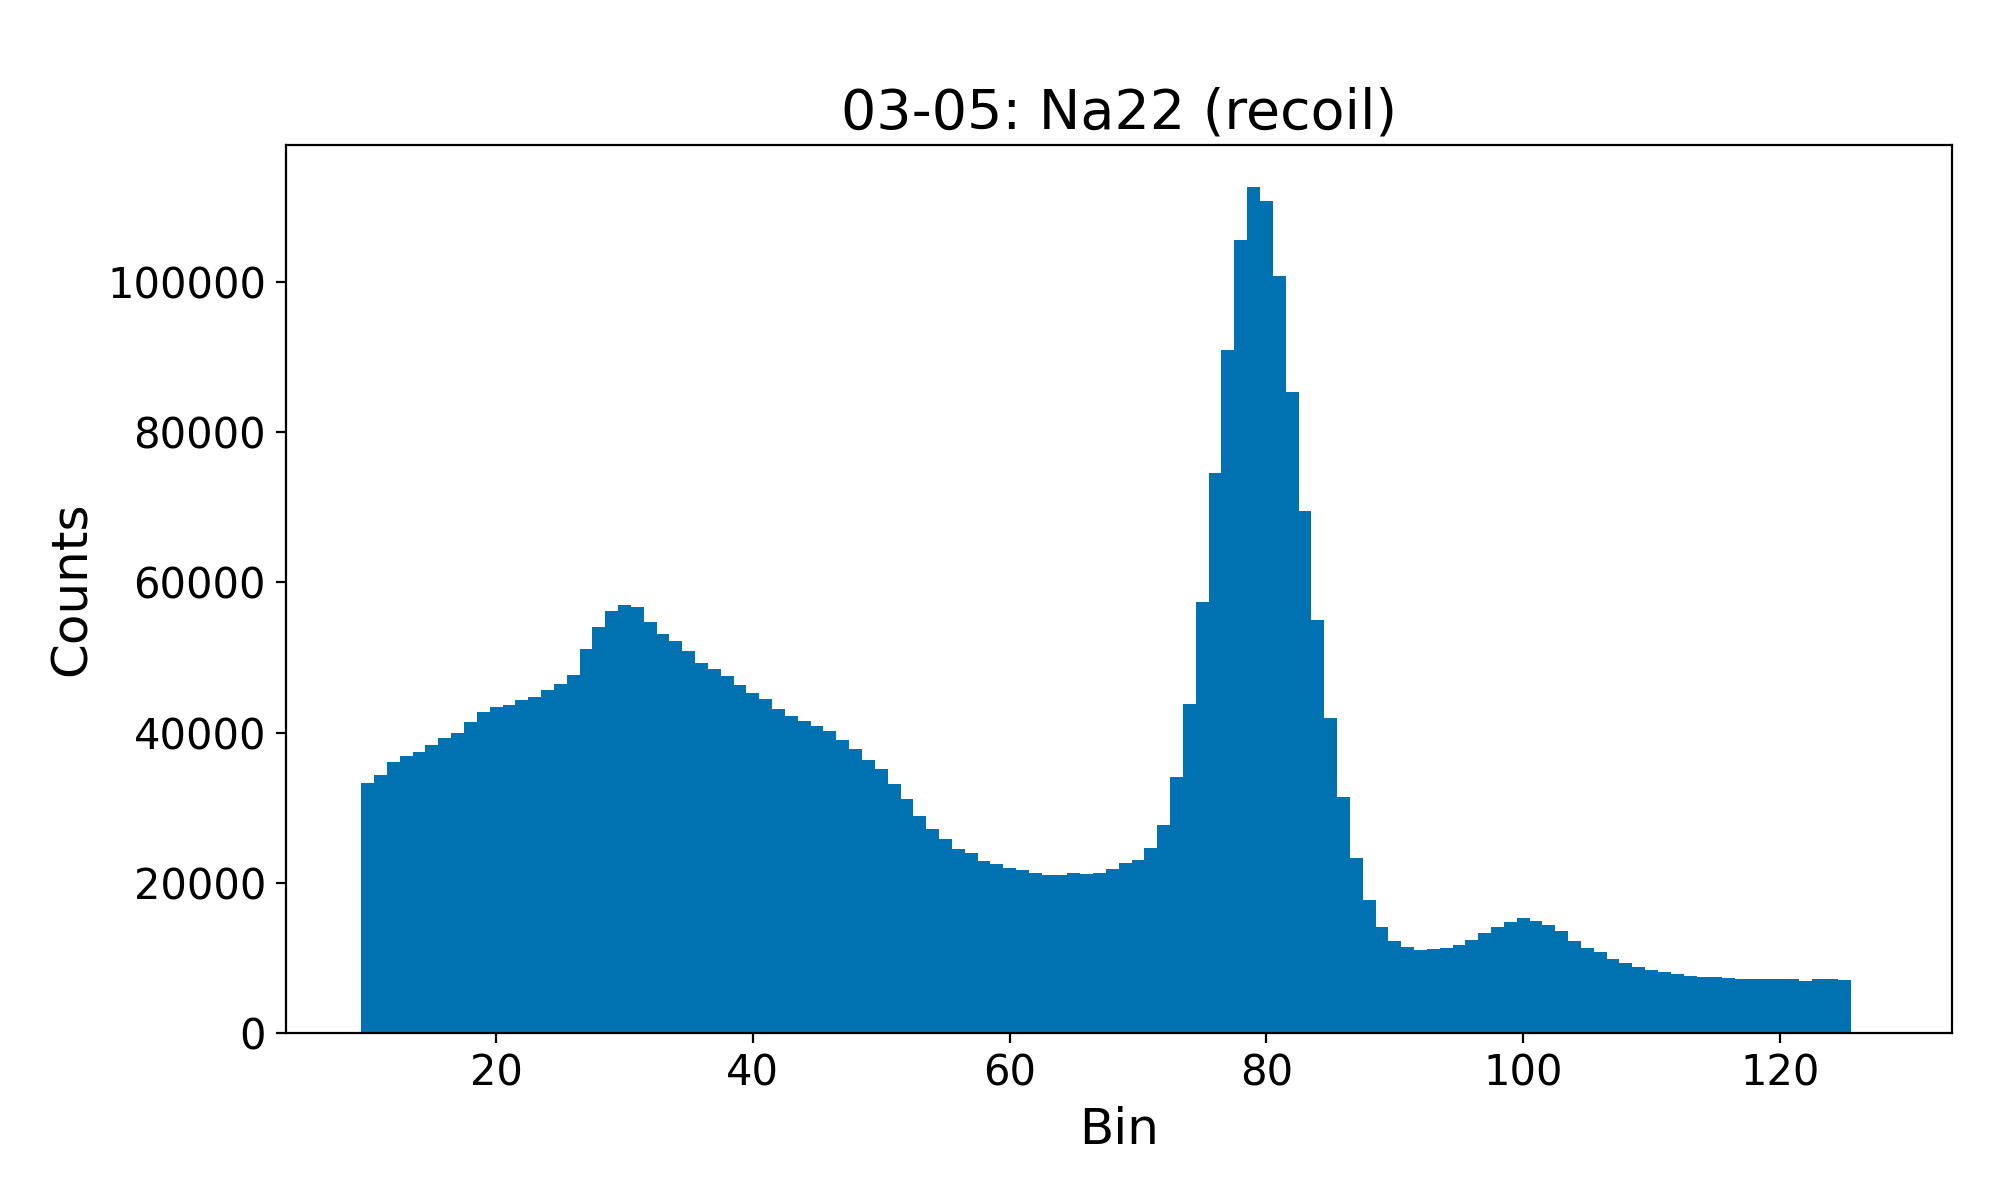
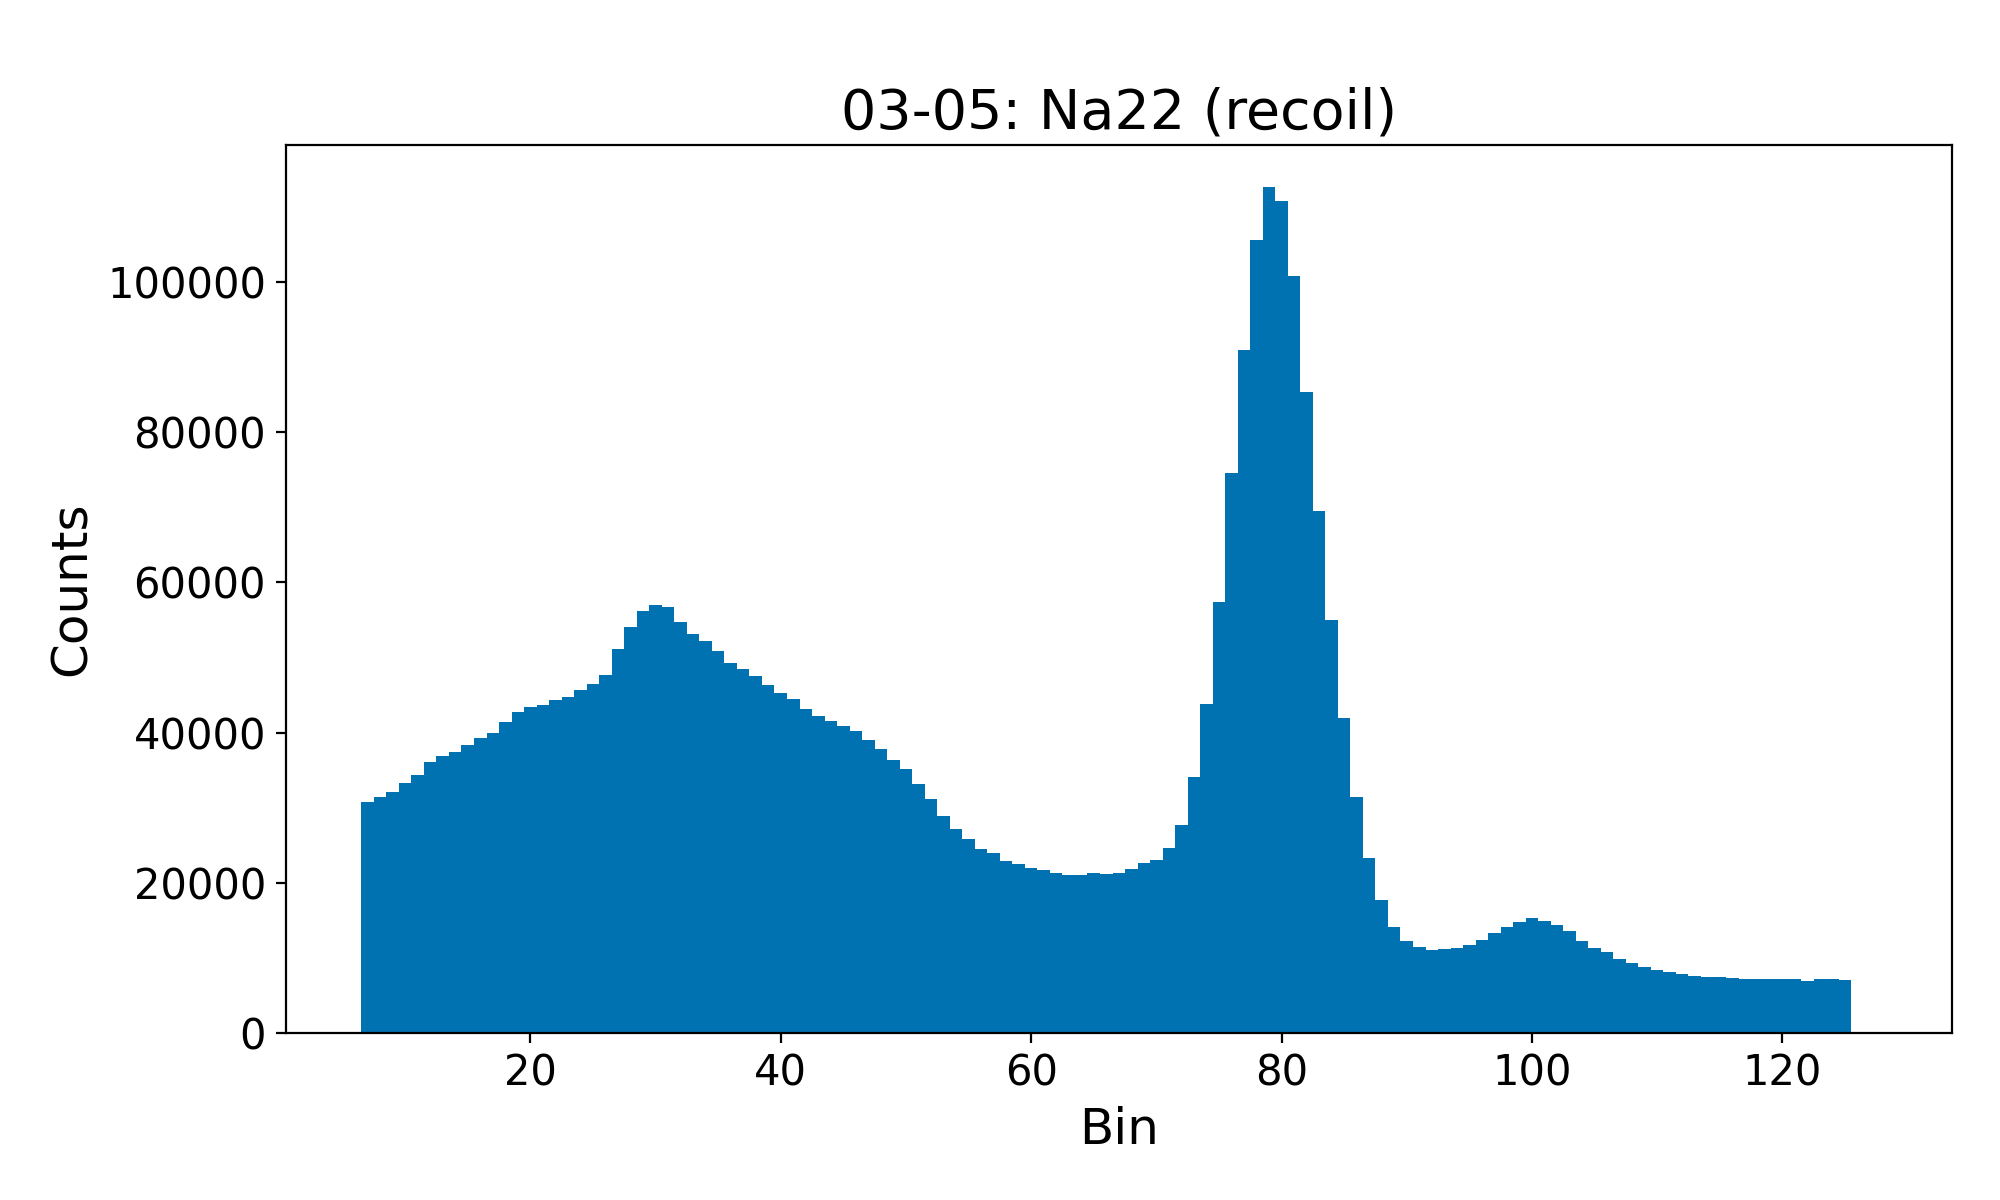
everything up to calibration done

diff --git a/Analysis/better-analysis.py b/Analysis/better-analysis.py
@@ -43,8 +43,9 @@ CGRAY = "#7F7F7F"
 # ============================================================
 
 FACTOR = 16
-UNIVERSAL_CUTOFF = 160 // FACTOR
+UNIVERSAL_CUTOFF = 120 // FACTOR
 HALF_WIDTH_FIT = 88 // FACTOR
+PROMINENCE = 20 * FACTOR
 
 SYSTEMATIC_CONFIG = {
     "enabled": False,
@@ -1704,6 +1705,7 @@ if __name__ == "__main__":
     ###################
 
     os.makedirs(OUTPUT_DIR, exist_ok=True)
+    os.makedirs(OUTPUT_DIR+"\\calibrations", exist_ok=True)
     for sp_type in DIR_TYPE:
         for source in DIR_SOURCE:
             for a in DIR_ANALYSIS:
@@ -1820,8 +1822,8 @@ if __name__ == "__main__":
             peak_plot = popt[1]
             peak_plot_err = perr[1]
 
-            Na22_peak_locations[f"{date}-{sp_type}"] = peak_plot
-            Na22_peak_errors[f"{date}-{sp_type}"] = peak_plot_err
+            Na22_peak_locations[f"{date}-{sp_type}", 511] = peak_plot
+            Na22_peak_errors[f"{date}-{sp_type}", 511] = peak_plot_err
 
             fig, ax = plt.subplots()
             ax.bar(bins_use, counts_use, width=1.0, color=CBLUE, edgecolor=None, linewidth=0)
@@ -1850,3 +1852,155 @@ if __name__ == "__main__":
     ###############
     # Ba133 Peaks #
     ###############
+    Ba133_peak_locations = {}
+    Ba133_peak_errors = {}
+    for date in all_dates:
+        for sp_type in ("recoil", "scatter"):
+            output_dir = OUTPUT_DIR + DIR_SOURCE["Ba133"] + DIR_TYPE[sp_type] + DIR_ANALYSIS["local"]
+            sp_Ba133 = spectra_maps[date][(sp_type, "Ba133")][0]
+
+            min_bin = get_low_bin_cutoff(sp_Ba133.date, sp_Ba133.source, sp_Ba133.spec_type, sp_Ba133.angle, LOW_BIN_CUTOFFS)
+            mask = sp_Ba133.bins >= min_bin
+
+            counts = sp_Ba133.counts
+            counts_use = counts[mask]
+            bins = sp_Ba133.bins
+            bins_use = bins[mask]
+            
+            # Candidates from find_peaks
+            peaks, _ = find_peaks(counts_use, distance=2*HALF_WIDTH_FIT, prominence=PROMINENCE)
+
+            fig, ax = plt.subplots()
+            ax.bar(bins_use, counts_use, width=1.0, color=CBLUE, edgecolor=None, linewidth=0)
+            ax.vlines(bins_use[peaks], 0, counts_use[peaks], colors=CORANGE)
+            ax.set_title(f"{date}: Ba133 ({sp_type})")
+            ax.set_xlabel("Bin")
+            ax.set_ylabel("Counts")
+            plt.tight_layout(rect=[0, 0, 1, 0.97])
+            plt.savefig(os.path.join(output_dir, f"{date}-candidates-{2048//FACTOR}.png"), dpi=200)
+            plt.close(fig)
+
+            # Refinement
+            indices = [(0, 81), (1, 160), (-1, 356)] if sp_type == "scatter" else [(0, 81), (1, 160), (-2, 356)]
+
+            for index in indices:
+                max_bin_index = peaks[index[0]] + min_bin
+
+                bins_use = bins[max_bin_index-HALF_WIDTH_FIT:max_bin_index+HALF_WIDTH_FIT+1]
+                counts_use = counts[max_bin_index-HALF_WIDTH_FIT:max_bin_index+HALF_WIDTH_FIT+1]
+
+                left = max(0, max_bin_index - HALF_WIDTH_FIT)
+                right = min(len(bins_use) - 1, max_bin_index + HALF_WIDTH_FIT)
+
+                xfit = bins_use
+                yfit = counts_use
+                yerr = poisson_errors(yfit)
+
+                A0 = max(yfit) - np.median(yfit)
+                mu0 = max_bin_index
+                sigma0 = max(1.5, HALF_WIDTH_FIT / 4)
+                b00 = np.median(yfit)
+                b10 = 0.0
+
+                lower = [0, xfit.min(), 0.5, -np.inf, -np.inf]
+                upper = [np.inf, xfit.max(), HALF_WIDTH_FIT, np.inf, np.inf]
+
+                popt, pcov = curve_fit(
+                    gaussian_plus_linear,
+                    xfit, yfit,
+                    p0=[A0, mu0, sigma0, b00, b10],
+                    sigma=yerr,
+                    absolute_sigma=True,
+                    bounds=(lower, upper),
+                    maxfev=20000
+                )
+                model = gaussian_plus_linear(xfit, *popt)
+                chi2_val, ndof, p_value = compute_chi2(yfit, model, yerr, 5)
+                perr = np.sqrt(np.diag(pcov))
+
+                xdense = np.linspace(xfit.min(), xfit.max(), 400)
+                ydense = gaussian_plus_linear(xdense, *popt)
+                peak_plot = popt[1]
+                peak_plot_err = perr[1]
+
+                Ba133_peak_locations[f"{date}-{sp_type}", index[1]] = peak_plot
+                Ba133_peak_errors[f"{date}-{sp_type}", index[1]] = peak_plot_err
+
+                fig, ax = plt.subplots()
+                ax.bar(bins_use, counts_use, width=1.0, color=CBLUE, edgecolor=None, linewidth=0)
+                ax.set_title(f"{date}: Ba133 ({sp_type})")
+                ax.set_xlabel("Bin")
+                ax.set_ylabel("Counts")
+                ax.plot(xdense, ydense, color=CRED, lw=2.5, label="Gaussian + linear fit")
+                ax.axvline(peak_plot, color=CGREEN, ls="--", lw=2,
+                            label=f"Peak = {peak_plot:.2f} ± {peak_plot_err:.2f}")
+
+                textbox = (
+                    f"$\\mu$ = {peak_plot:.2f} ± {peak_plot_err:.2f}\n"
+                    f"$\\sigma$ = {popt[2]:.2f} ± {perr[2]:.2f} bins\n"
+                    f"$\\chi^2$/ndof = {chi2_val:.2f}/{ndof}\n"
+                    f"$p$ = {p_value:.3f}\n"
+                )
+                ax.text(
+                    0.98, 0.95, textbox, transform=ax.transAxes,
+                    ha="right", va="top",
+                    bbox=dict(boxstyle="round", facecolor="white", alpha=0.9, edgecolor="black")
+                )
+                plt.tight_layout(rect=[0, 0, 1, 0.97])
+                plt.savefig(os.path.join(output_dir, f"{date}-local_peak{index[1]}-{2048//FACTOR}.png"), dpi=200)
+                plt.close(fig)
+    
+    #############
+    # CALIBRATE #
+    #############
+    calibrations = {}
+    for date in all_dates:
+        for sp_type in ["scatter", "recoil"]:
+            output_dir = OUTPUT_DIR + "\\calibrations"
+
+            xfit = np.array([511, 356, 160, 81])
+            yfit = np.array([Na22_peak_locations[f"{date}-{sp_type}", 511], Ba133_peak_locations[f"{date}-{sp_type}", 356], Ba133_peak_locations[f"{date}-{sp_type}", 160], Ba133_peak_locations[f"{date}-{sp_type}", 81]])
+            yerr = np.array([Na22_peak_errors[f"{date}-{sp_type}", 511], Ba133_peak_errors[f"{date}-{sp_type}", 356], Ba133_peak_errors[f"{date}-{sp_type}", 160], Ba133_peak_errors[f"{date}-{sp_type}", 81]])
+            
+            popt, pcov = curve_fit(
+                weighted_linear,
+                xfit, yfit,
+                sigma=yerr,
+                absolute_sigma=True,
+                bounds=(0, 2048//FACTOR),
+                maxfev=20000
+            )
+            # Swap x and y !!! BE CAREFUL
+            m = 1 / popt[0]
+            b = - popt[1] / popt[0]
+            model = weighted_linear(yfit, m, b)
+            chi2_val, ndof, p_value = compute_chi2(xfit, model, m*yerr, 2)
+
+            perr = np.sqrt(np.diag(pcov))
+            m_err = m * m * perr[0]
+            b_err = m * perr[1] - m * b * perr[0] 
+
+            xdense = np.linspace(yfit.min(), yfit.max(), 400)
+            ydense = weighted_linear(xdense, m, b)
+
+            fig, ax = plt.subplots()
+            ax.scatter(yfit, xfit, color=CPURPLE)
+            ax.set_title(f"{date}: Calibration")
+            ax.set_xlabel("Bin")
+            ax.set_ylabel("Energy [keV]")
+            ax.plot(xdense, ydense, color=CRED, lw=2.5, label="Linear Fit")
+
+            textbox = (
+                f"$m$ = {m:.2f} ± {m_err:.2f}\n"
+                f"$b$ = {b:.2f} ± {b_err:.2f} bins\n"
+                f"$\\chi^2$/ndof = {chi2_val:.2f}/{ndof}\n"
+                f"$p$ = {p_value:.3f}\n"
+            )
+            ax.text(
+                0.02, 0.95, textbox, transform=ax.transAxes,
+                ha="left", va="top",
+                bbox=dict(boxstyle="round", facecolor="white", alpha=0.9, edgecolor="black")
+            )
+            plt.tight_layout(rect=[0, 0, 1, 0.97])
+            plt.savefig(os.path.join(output_dir, f"{date}-{sp_type}-{2048//FACTOR}.png"), dpi=200)
+            plt.close(fig)
